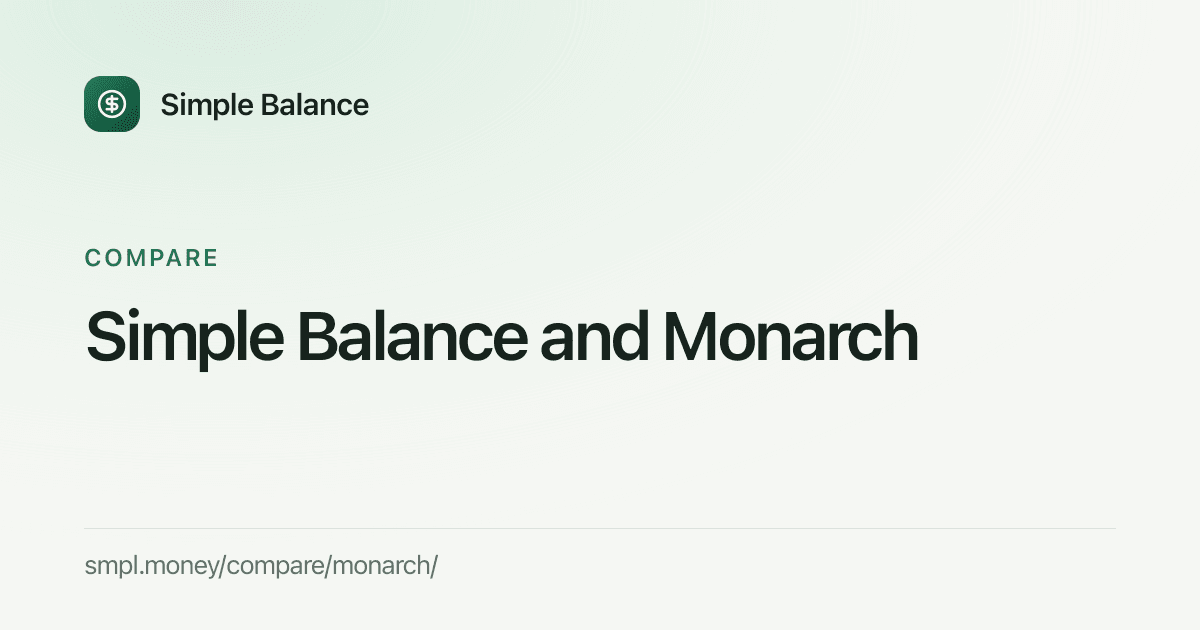
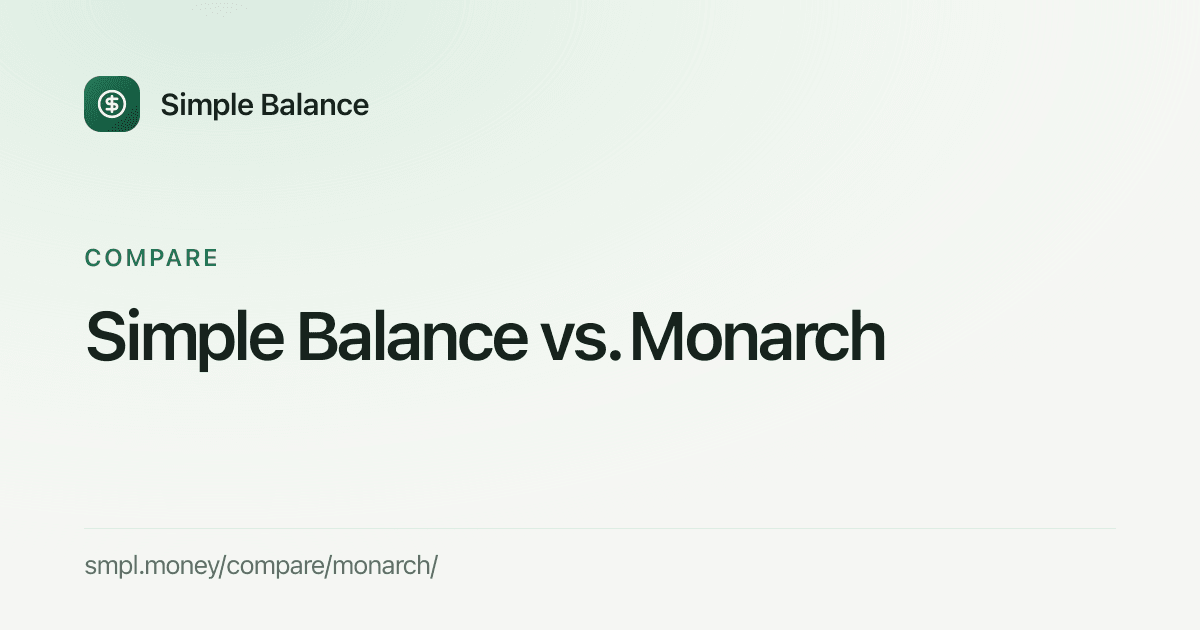
Lead the comparisons with price and hosting, and say the bank last
Every answer called how transactions get in the biggest difference, which
describes a gap as the product when bank connections are planned. Each
answer now leads with price and hosting and ends on the other app's bank
connection and "Simple Balance has no bank connection today", the present
tense content.md 1.4 asks for. The docs FAQ's comparison answer does the
same, and keeps its app.smpl.money.

On the comparison pages: app.smpl.money is gone, Actual Budget is never
"Actual", the headings, titles and links read "Simple Balance vs. ...", and
the section titles say what they are: "Feature comparison" and "Detailed
comparisons". The four cards are redrawn from the new headings, and
content.md 5.19 records the bank-last and full-name rules.

Checked: verify green; the index and a comparison looked at in light and
dark, at 1280 and 375.

Changed region(s): [[0.4317, 0.4825, 0.7708, 0.573]]

diff --git a/src/content/compare.ts b/src/content/compare.ts
@@ -47,7 +47,8 @@ export type RowKey =
  * once covered two different things: a plan somebody hosts for you at no
  * charge, which Simple Balance has and none of the others does, and software
  * that costs nothing to run on a server you look after, which Simple Balance
- * and Actual Budget both are. Actual has no hosted service of its own, so a
+ * and Actual Budget both are. Actual Budget has no hosted service of its own,
+ * so a
  * single "Free" in its column read as a cloud app it doesn't offer.
  */
 export const rows: readonly { readonly key: RowKey; readonly label: string }[] = [
@@ -90,7 +91,7 @@ export type Rival = {
   readonly url: string;
   /**
    * The whole title, without the layout's " — Simple Balance": it's
-   * "Simple Balance vs YNAB", the search itself, so the name is already in
+   * "Simple Balance vs. YNAB", the search itself, so the name is already in
    * it once (`tests/sitemap.test.ts` refuses it twice).
    */
   readonly title: string;
@@ -131,9 +132,9 @@ export const spell = (count: number) => WORDS[count] ?? String(count);
  */
 export function ours({ prices, freeLimit }: Contract): Readonly<Record<RowKey, string>> {
   return {
-    cost: `At app.smpl.money: free, or ${dollars(prices.monthly)} a month or ${dollars(prices.yearly)} a year for Premium`,
-    free: `Yes, at app.smpl.money, with every feature, for ${spell(freeLimit)} accounts in use at once and with ads`,
-    in: "You download a CSV file from your bank and import it, or type entries in. There's no bank connection.",
+    cost: `Free, or ${dollars(prices.monthly)} a month or ${dollars(prices.yearly)} a year for Premium`,
+    free: `Yes, with every feature, for ${spell(freeLimit)} accounts in use at once and with ads`,
+    in: "You download a CSV file from your bank and import it, or type entries in. There's no bank connection today.",
     files: "CSV",
     budget: "A budget for each category or group, which can carry what's left into the next month",
     sharing: "No. Each person who signs up has their own books.",
@@ -151,7 +152,7 @@ export const compareCopy = {
   checked: "Checked",
   checkedNote:
     "Prices and features change. Every fact about the other app links to the page it came from, and this page is checked again every three months.",
-  tableTitle: "Side by side.",
+  tableTitle: "Feature comparison.",
   tableCaption: (name: string) => `Simple Balance and ${name}, feature by feature`,
   feature: "Feature",
   sourceLabel: (number: number, label: string) => `Source ${number}: ${label}`,
@@ -224,16 +225,16 @@ export const rivals: readonly Rival[] = [
     slug: "ynab",
     name: "YNAB",
     url: "https://www.ynab.com/",
-    title: "Simple Balance vs YNAB: prices, bank connections and budgets",
-    heading: "Simple Balance and YNAB",
+    title: "Simple Balance vs. YNAB: prices, bank connections and budgets",
+    heading: "Simple Balance vs. YNAB",
     description:
       "YNAB costs $14.99 a month or $109 a year and can connect to your bank. Simple Balance has a free plan, imports your bank's CSV file, and is open source.",
     checked: "2026-10-29",
     answer: (contract) =>
-      "YNAB and Simple Balance are both budget apps, and they differ most in price and in how transactions get in. " +
-      "YNAB costs $14.99 a month or $109 a year after a 34-day free trial, and it can connect to your bank. " +
-      `Simple Balance is ${ourPlans(contract)}, and you import a CSV file you download from your bank instead. ` +
-      "Simple Balance is also open source, so you can run your own copy for free.",
+      "YNAB and Simple Balance are both budget apps. " +
+      "YNAB costs $14.99 a month or $109 a year after a 34-day free trial. " +
+      `Simple Balance is ${ourPlans(contract)}, and it's open source, so you can also run your own copy for free. ` +
+      "YNAB can connect to your bank. Simple Balance has no bank connection today, so you import a CSV file you download from your bank.",
     them: {
       cost: { text: "$14.99 a month, or $109 a year", source: 1 },
       free: { text: "No. A 34-day free trial, with no card needed", source: 1 },
@@ -257,7 +258,7 @@ export const rivals: readonly Rival[] = [
     },
     chooseThem: [
       {
-        text: "You want transactions to arrive without downloading anything. YNAB's Direct Import brings transactions in from your bank, and Simple Balance has no bank connection.",
+        text: "You want transactions to arrive without downloading anything. YNAB's Direct Import brings transactions in from your bank, and Simple Balance has no bank connection today.",
         source: 2,
       },
       {
@@ -320,16 +321,16 @@ export const rivals: readonly Rival[] = [
     slug: "monarch",
     name: "Monarch",
     url: "https://www.monarch.com/",
-    title: "Simple Balance vs Monarch: prices, bank connections and sharing",
-    heading: "Simple Balance and Monarch",
+    title: "Simple Balance vs. Monarch: prices, bank connections and sharing",
+    heading: "Simple Balance vs. Monarch",
     description:
       "Monarch costs $14.99 a month or $99.99 a year and connects to your bank. Simple Balance has a free plan, imports a CSV file instead, and is open source.",
     checked: "2026-10-29",
     answer: (contract) =>
-      "Monarch and Simple Balance are both budget apps, and they differ most in price and in how transactions get in. " +
-      "Monarch costs $14.99 a month or $99.99 a year after a 7-day free trial, and it connects to your bank. " +
-      `Simple Balance is ${ourPlans(contract)}, and you import a CSV file you download from your bank instead. ` +
-      "Both let an AI assistant connect through MCP, and only Simple Balance is open source and free to run yourself.",
+      "Monarch and Simple Balance are both budget apps, and both let an AI assistant connect through MCP. " +
+      "Monarch costs $14.99 a month or $99.99 a year after a 7-day free trial. " +
+      `Simple Balance is ${ourPlans(contract)}, and only Simple Balance is open source and free to run yourself. ` +
+      "Monarch connects to your bank. Simple Balance has no bank connection today, so you import a CSV file you download from your bank.",
     them: {
       cost: { text: "Core: $14.99 a month or $99.99 a year. Plus: $199.99 a year", source: 1 },
       free: { text: "No. A 7-day free trial, with a payment method", source: 1 },
@@ -347,7 +348,7 @@ export const rivals: readonly Rival[] = [
     },
     chooseThem: [
       {
-        text: "You want transactions to arrive from your bank on their own. Monarch connects to your bank, and Simple Balance doesn't.",
+        text: "You want transactions to arrive from your bank on their own. Monarch connects to your bank, and Simple Balance doesn't today.",
         source: 3,
       },
       {
@@ -412,16 +413,16 @@ export const rivals: readonly Rival[] = [
     slug: "quicken-simplifi",
     name: "Quicken Simplifi",
     url: "https://www.quicken.com/products/simplifi/",
-    title: "Simple Balance vs Quicken Simplifi: prices and bank connections",
-    heading: "Simple Balance and Quicken Simplifi",
+    title: "Simple Balance vs. Quicken Simplifi: prices and bank connections",
+    heading: "Simple Balance vs. Quicken Simplifi",
     description:
       "Quicken Simplifi is $6.99 a month, billed yearly, and connects to your bank. Simple Balance has a free plan, imports a CSV file, and is open source.",
     checked: "2026-10-29",
     answer: (contract) =>
-      "Quicken Simplifi and Simple Balance are both budget apps, and they differ most in price and in how transactions get in. " +
-      "Quicken Simplifi costs $6.99 a month, billed once a year, with no free trial, and it connects to your bank. " +
-      `Simple Balance is ${ourPlans(contract)}, and you import a CSV file you download from your bank instead. ` +
-      "Simple Balance is also open source, so you can run your own copy for free.",
+      "Quicken Simplifi and Simple Balance are both budget apps. " +
+      "Quicken Simplifi costs $6.99 a month, billed once a year, with no free plan or trial. " +
+      `Simple Balance is ${ourPlans(contract)}, and it's open source, so you can also run your own copy for free. ` +
+      "Quicken Simplifi connects to your bank. Simple Balance has no bank connection today, so you import a CSV file you download from your bank.",
     them: {
       cost: { text: "$6.99 a month, billed once a year. There's no monthly plan.", source: [1, 2] },
       free: { text: "No, and no free trial. A 30-day money-back guarantee", source: 2 },
@@ -442,7 +443,7 @@ export const rivals: readonly Rival[] = [
     },
     chooseThem: [
       {
-        text: "You want transactions to arrive from your bank on their own. Simplifi connects to your bank, and Simple Balance doesn't.",
+        text: "You want transactions to arrive from your bank on their own. Simplifi connects to your bank, and Simple Balance doesn't today.",
         source: 3,
       },
       {
@@ -504,19 +505,19 @@ export const rivals: readonly Rival[] = [
     slug: "actual-budget",
     name: "Actual Budget",
     url: "https://actualbudget.org/",
-    title: "Simple Balance vs Actual Budget: two open source budget apps",
-    heading: "Simple Balance and Actual Budget",
+    title: "Simple Balance vs. Actual Budget: two open source budget apps",
+    heading: "Simple Balance vs. Actual Budget",
     description:
       "Both are open source and free to run on your own server. Only Simple Balance also has a hosted app with a free plan; Actual Budget has no hosted service.",
     checked: "2026-10-29",
     answer: (contract) =>
       "Actual Budget and Simple Balance are both open source budget apps that are free to run on a server you look after, and they differ most in whether anybody hosts them for you. " +
       "Actual Budget has had no hosted service since 2024: you set up a server, pay a company such as PikaPods about $1.50 a month to run one, or keep your budget in a single browser with no sync. " +
-      `Simple Balance also runs as a hosted app at app.smpl.money, ${ourPlans(contract)}. ` +
-      "Actual Budget uses envelope budgeting and can sync with your bank through a service such as SimpleFIN, and Simple Balance doesn't connect to a bank: you import a CSV file from your bank instead.",
+      `Simple Balance is also a hosted app, ${ourPlans(contract)}. ` +
+      "Actual Budget uses envelope budgeting and can sync with your bank through a service such as SimpleFIN. Simple Balance has no bank connection today, so you import a CSV file you download from your bank.",
     them: {
       cost: {
-        text: "Not by Actual, whose hosted service shut down in 2024. PikaPods hosts it for about $1.50 a month",
+        text: "Not by Actual Budget, whose hosted service shut down in 2024. PikaPods hosts it for about $1.50 a month",
         source: [7, 13],
       },
       free: {
@@ -524,7 +525,7 @@ export const rivals: readonly Rival[] = [
         source: 6,
       },
       self: {
-        text: "Yes, free. A server you set up is the standard way to use Actual",
+        text: "Yes, free. A server you set up is the standard way to use Actual Budget",
         source: [1, 6],
       },
       in: {
@@ -552,7 +553,7 @@ export const rivals: readonly Rival[] = [
     },
     chooseThem: [
       {
-        text: "You want bank sync and don't mind setting it up. Actual's optional sync runs on your own server through a service such as SimpleFIN, and Simple Balance has no bank connection.",
+        text: "You want bank sync and don't mind setting it up. Actual Budget's optional sync runs on your own server through a service such as SimpleFIN, and Simple Balance has no bank connection today.",
         source: 2,
       },
       { text: "You want envelope budgeting, giving out only money you already have.", source: 4 },
@@ -565,14 +566,14 @@ export const rivals: readonly Rival[] = [
     ],
     chooseUs: [
       {
-        text: "You don't want to run a server or pay for one. Simple Balance's cloud app at app.smpl.money has a free plan and nothing to install, and Actual has had no hosted service of its own since 2024.",
+        text: "You don't want to run a server or pay for one. Simple Balance's cloud app has a free plan and nothing to install, and Actual Budget has had no hosted service of its own since 2024.",
         source: 7,
       },
       {
         text: "You keep money in more than one currency. Each account keeps its own, and nothing is converted at an exchange rate.",
       },
       {
-        text: "You want an AI assistant to work in your books through an MCP server that comes with the app. Actual's docs point to ones other people built.",
+        text: "You want an AI assistant to work in your books through an MCP server that comes with the app. Actual Budget's docs point to ones other people built.",
         source: 9,
       },
       {
@@ -581,42 +582,51 @@ export const rivals: readonly Rival[] = [
     ],
     moving: [
       {
-        text: "Actual exports an account's transactions from the menu on that account's page, as a CSV file, so each account arrives in a file of its own.",
+        text: "Actual Budget exports an account's transactions from the menu on that account's page, as a CSV file, so each account arrives in a file of its own.",
         source: [11, 12],
       },
     ],
     sources: [
       { label: "Actual Budget on GitHub", url: "https://github.com/actualbudget/actual" },
-      { label: "Bank sync, Actual docs", url: "https://actualbudget.org/docs/advanced/bank-sync" },
       {
-        label: "Importing transactions, Actual docs",
+        label: "Bank sync, Actual Budget docs",
+        url: "https://actualbudget.org/docs/advanced/bank-sync",
+      },
+      {
+        label: "Importing transactions, Actual Budget docs",
         url: "https://actualbudget.org/docs/transactions/importing",
       },
       { label: "Actual Budget", url: "https://actualbudget.org/" },
-      { label: "Vision, Actual docs", url: "https://actualbudget.org/docs/vision" },
-      { label: "Installing Actual, Actual docs", url: "https://actualbudget.org/docs/install" },
+      { label: "Vision, Actual Budget docs", url: "https://actualbudget.org/docs/vision" },
       {
-        label: "Frequently asked questions, Actual docs",
+        label: "Installing Actual Budget, Actual Budget docs",
+        url: "https://actualbudget.org/docs/install",
+      },
+      {
+        label: "Frequently asked questions, Actual Budget docs",
         url: "https://actualbudget.org/docs/faq",
       },
       {
-        label: "Multi-user support, Actual docs",
+        label: "Multi-user support, Actual Budget docs",
         url: "https://actualbudget.org/docs/config/multi-user",
       },
       {
-        label: "Community projects, Actual docs",
+        label: "Community projects, Actual Budget docs",
         url: "https://actualbudget.org/docs/community-repos",
       },
       {
-        label: "SimpleFIN bank sync, Actual docs",
+        label: "SimpleFIN bank sync, Actual Budget docs",
         url: "https://actualbudget.org/docs/advanced/bank-sync/simplefin",
       },
-      { label: "Accounts, Actual docs", url: "https://actualbudget.org/docs/tour/accounts" },
+      { label: "Accounts, Actual Budget docs", url: "https://actualbudget.org/docs/tour/accounts" },
       {
-        label: "Actual's CSV export, in its source code",
+        label: "Actual Budget's CSV export, in its source code",
         url: "https://github.com/actualbudget/actual/blob/master/packages/loot-core/src/server/transactions/export/export-to-csv.ts",
       },
-      { label: "PikaPods, Actual docs", url: "https://actualbudget.org/docs/install/pikapods" },
+      {
+        label: "PikaPods, Actual Budget docs",
+        url: "https://actualbudget.org/docs/install/pikapods",
+      },
     ],
   },
 ];
@@ -624,20 +634,20 @@ export const rivals: readonly Rival[] = [
 /** The comparisons' own index, `/compare/`. */
 export const compareIndex = {
   crumb: "Compare",
-  title: "Simple Balance vs YNAB, Monarch, Simplifi and Actual Budget",
+  title: "Simple Balance vs. YNAB, Monarch, Simplifi and Actual Budget",
   heading: "How Simple Balance compares with other budget apps.",
   description:
     "Simple Balance beside YNAB, Monarch, Simplifi and Actual Budget: what each costs hosted for you, which you can run yourself, and how transactions get in.",
   answer:
-    "Simple Balance is a free budget app and spending tracker. The biggest difference from YNAB, Monarch and Quicken Simplifi is how transactions get in: all three can connect to your bank, and Simple Balance imports a CSV file you download from your bank instead. Simple Balance is also the only one of the five with a free plan somebody hosts for you, at app.smpl.money. Like Actual Budget, it's open source and free to run on your own server, and Actual has no hosted service of its own.",
+    "Simple Balance is a free budget app and spending tracker, and the only one of these five apps with a free plan somebody hosts for you. Like Actual Budget, it's open source and free to run on your own server, but Actual Budget has no hosted service of its own. YNAB, Monarch and Quicken Simplifi can connect to your bank. Simple Balance has no bank connection today, so you import a CSV file you download from your bank.",
   checkedNote:
     "Prices and features change. Each app's facts link to the pages they came from, and every comparison is checked again every three months.",
-  tableTitle: "Five apps, side by side.",
+  tableTitle: "Feature comparison.",
   tableCaption: "Simple Balance, YNAB, Monarch, Quicken Simplifi and Actual Budget, compared",
-  pagesTitle: "One app at a time.",
+  pagesTitle: "Detailed comparisons.",
   sourcesNote:
     "Each number in the table links to the page that fact came from, listed under Sources on that app's own comparison.",
-  allLink: "Every app, side by side",
+  allLink: "Compare all five apps",
 } as const;
 
 const days = rivals.map((rival) => rival.checked).toSorted();

diff --git a/tests/compare.test.ts b/tests/compare.test.ts
@@ -154,7 +154,7 @@ describe("Simple Balance's own column", () => {
   });
 
   it("says plainly that it doesn't connect to a bank", () => {
-    expect(column.in).toContain("There's no bank connection.");
+    expect(column.in).toContain("There's no bank connection today.");
   });
 });
 

diff --git a/.claude/skills/aeo-review/SKILL.md b/.claude/skills/aeo-review/SKILL.md
@@ -156,7 +156,7 @@ what a true answer has to carry.
 | An alternative to Monarch                             | `/compare/monarch/`                           | Monarch, bank, free, MCP                          | The same, and that both connect to an assistant through MCP, which Monarch's own page says                                                         |
 | An alternative to Quicken Simplifi                    | `/compare/quicken-simplifi/`                  | Simplifi, bank, free, trial                       | The same, and that Simplifi has neither a free plan nor a trial                                                                                    |
 | An open source alternative to Actual Budget           | `/compare/actual-budget/`                     | Actual Budget, open source, server, bank          | That both are free to run yourself, that only Simple Balance is also hosted with a free plan, and the bank sync and envelopes Actual offers        |
-| Simple Balance vs YNAB, Monarch or Simplifi           | `/compare/`                                   | YNAB, Monarch, Simplifi, free plan                | The bank difference first, then the free plan none of the three has                                                                                |
+| Simple Balance vs. YNAB, Monarch or Simplifi          | `/compare/`                                   | YNAB, Monarch, Simplifi, free plan                | The free hosted plan none of the others has, then the bank difference, today                                                                       |
 | Is there a Simple Balance phone app?                  | `/docs/frequently-asked-questions/`           | phone, app store, browser                         | No app-store app, and that it runs in a phone's web browser                                                                                        |
 
 **Two kinds of prompt have no row, on purpose.** "How do I make a budget"

diff --git a/docs/standards/content.md b/docs/standards/content.md
@@ -1339,12 +1339,21 @@ where each self-hosted difference sits, and the register of every page, are
 - **Free hosted and free to run yourself are separate rows**, side by side:
   what it costs to have it hosted for you, whether there's a free hosted
   plan, and whether you can run your own copy. One "Free" covered both, and
-  in Actual Budget's column it read as a cloud app Actual hasn't offered
+  in Actual Budget's column it read as a cloud app Actual Budget hasn't offered
   since 2024. A "Free" that doesn't say which kind is the finding.
+- **The bank difference is said last, and in the present tense.** Each
+  answer leads with price and hosting, and ends on the other app's bank
+  connection and "Simple Balance has no bank connection today". It's a fact
+  about now, under 1.4, and not the difference that defines the product:
+  bank connections are planned, so an answer that called it the biggest
+  difference would describe a gap as the product.
+- **The other app is named in full**, "Actual Budget" and never "Actual",
+  because the short name is a common word an engine can't tie to the
+  product.
 - **Each page says when the other app is the better choice**, before it says
   when Simple Balance is. A comparison that can't name one is an
   advertisement, and reads as one.
-- **The title is the search itself**, "Simple Balance vs YNAB", set as an
+- **The title is the search itself**, "Simple Balance vs. YNAB", set as an
   absolute title so the layout's template doesn't name the site twice.
 
 The pages are linked from the footer and not the header. The header is for

diff --git a/content/docs/frequently-asked-questions.md b/content/docs/frequently-asked-questions.md
@@ -25,11 +25,10 @@ accounts in use at once, with ads.
 
 ## How is Simple Balance different from YNAB or Monarch?
 
-The biggest difference is how your spending gets in. YNAB, Monarch and Quicken
-Simplifi can connect to your bank, and Simple Balance doesn't: you download a
-file from your bank and import it. Simple Balance also has a free plan at
-app.smpl.money, which none of those three has, and it's open source, so you
-can run your own copy.
+Simple Balance has a free plan at app.smpl.money, which YNAB, Monarch and
+Quicken Simplifi don't, and it's open source, so you can run your own copy.
+Those three can connect to your bank. Simple Balance has no bank connection
+today, so you download a file from your bank and import it.
 [How Simple Balance compares](/compare/) puts them side by side, with a source
 for every fact about the other apps.
 
